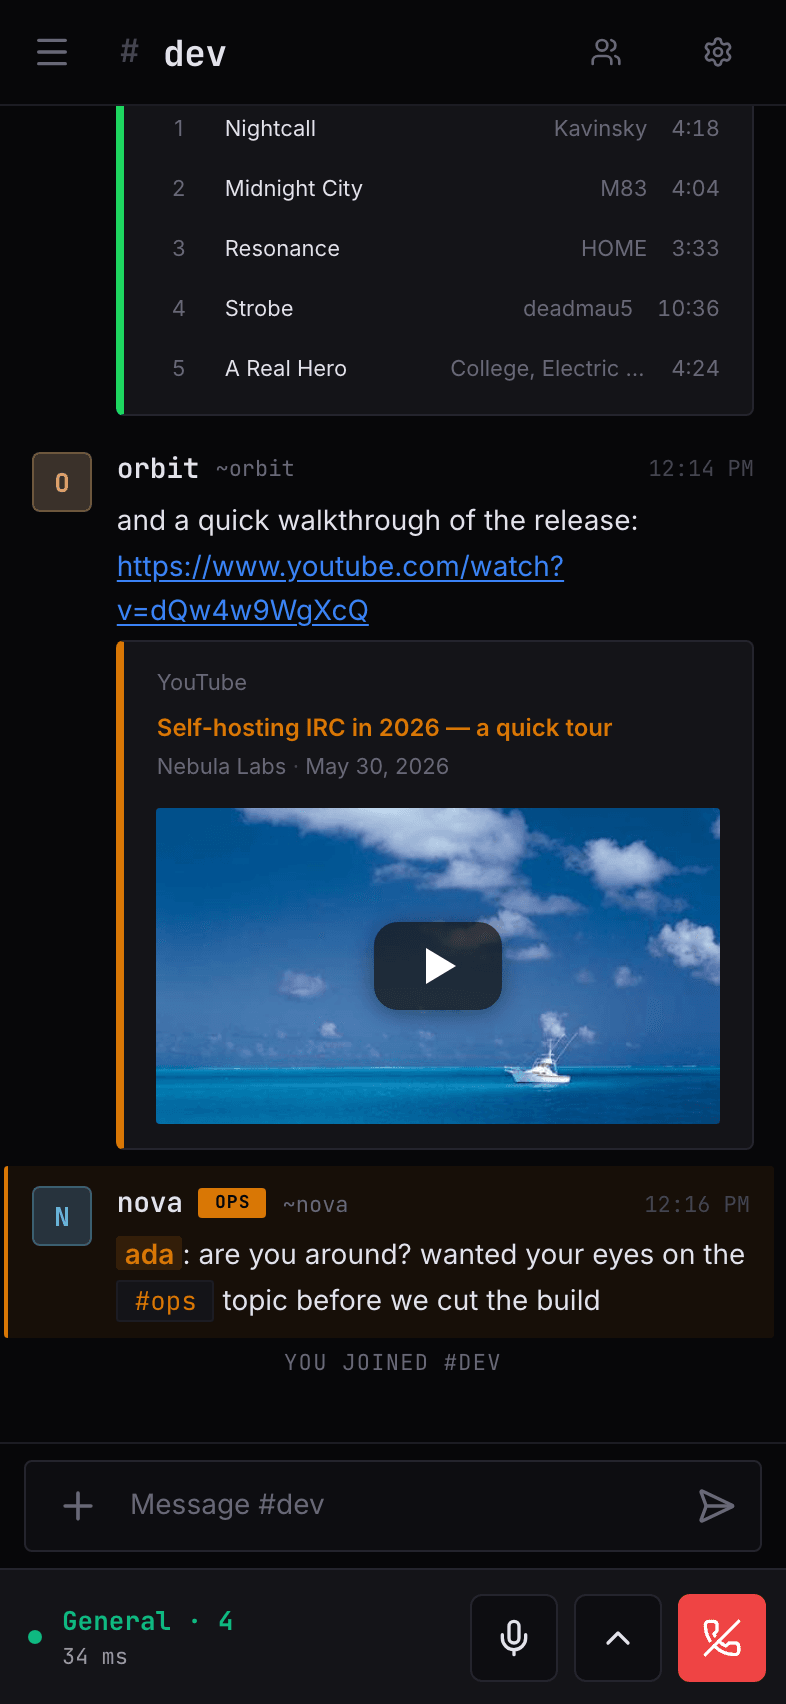
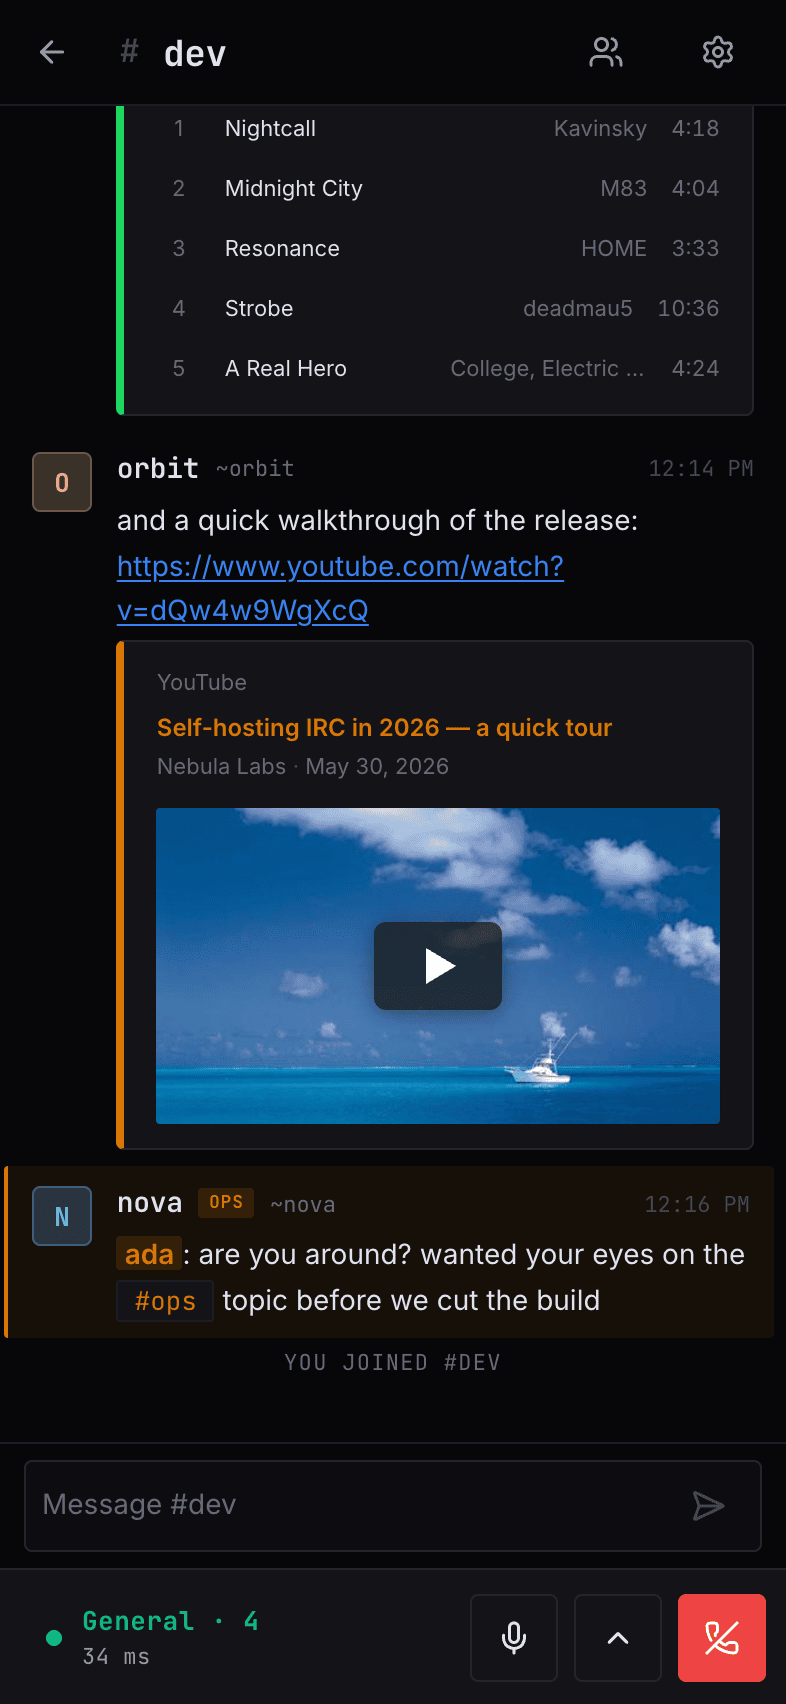
feat: screenshots from the current app (v0.87)
Every screenshot in public/screenshots retaken from boson main at
v0.87.1 (after the design-system pass, boson #116/#122/#123): rounded
square avatars, small square role badges and counts, 6px cards and
embeds, the squarer composer and the unified buttons. Same harness
(shots.html), fixture data only, same filenames, sizes and framing;
1440x900 shots captured at 2x and downsized, then palette-quantised
with pngquant (1.30 MB -> 1.08 MB).

The notification settings alt text now names what the panel shows
(toasts, system notifications, mentions, DMs, friends; no sound toggle).

diff --git a/src/pages/FeaturesPage.tsx b/src/pages/FeaturesPage.tsx
@@ -128,7 +128,7 @@ export function FeaturesPage() {
         title="Built for the desktop."
         blurb="A native app, not a tab — with the polish you'd expect."
         image="/screenshots/feat-desktop.png"
-        imageAlt="Notification settings: mentions, direct messages, and sound"
+        imageAlt="Notification settings: in-app toasts, system notifications, mentions, direct messages and friends"
         features={[
           { icon: <BellIcon />, title: 'Desktop notifications', body: 'Native alerts for mentions and DMs when the window is in the background — not for the channel you are reading; click to jump straight to the conversation.' },
           { icon: <ResizeIcon />, title: 'Your layout, kept', body: 'Resize the channel and member lists and drag channels into your own order; layout, positions and session persist across restarts.' },
